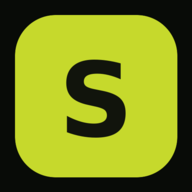
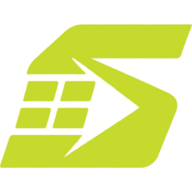
Add files via upload

diff --git a/account.html b/account.html
@@ -19,7 +19,7 @@
   <body>
     <div class="app-shell">
       <aside class="app-sidebar" aria-label="Əsas menyu">
-        <div class="sidebar-head"><a class="sidebar-brand" href="dashboard.html"><span class="brand-badge"><svg viewBox="0 0 24 24"><path d="M12 18V6m0 0-4 4m4-4 4 4"/></svg></span><span class="nav-label">StockPilot</span></a><button class="sidebar-toggle" data-sidebar-toggle aria-label="Menyunu yığ"><svg viewBox="0 0 24 24"><path d="M4 7h16M4 12h16M4 17h16"/></svg></button></div>
+        <div class="sidebar-head"><a class="sidebar-brand" href="dashboard.html" aria-label="StockPilot ana səhifə"><img class="brand-logo-full" src="stockpilot-logo.png" alt="StockPilot" /><img class="brand-logo-mark" src="stockpilot-192.png" alt="" /></a><button class="sidebar-toggle" data-sidebar-toggle aria-label="Menyunu yığ"><svg viewBox="0 0 24 24"><path d="M4 7h16M4 12h16M4 17h16"/></svg></button></div>
         <p class="nav-caption">İdarəetmə</p><nav class="app-nav">
           <a href="dashboard.html" title="Şəxsi sifarişlər"><svg viewBox="0 0 24 24"><path d="M6 3h12v18H6zM9 7h6M9 11h6M9 15h3"/></svg><span class="nav-label">Şəxsi sifarişlər</span></a><a href="customer-orders.html" title="Müştəri sifarişləri"><svg viewBox="0 0 24 24"><path d="M4 6h16v12H4zM8 10h.01M12 10h4M8 14h8"/></svg><span class="nav-label">Müştəri sifarişləri</span></a><a class="active" href="account.html" title="Ümumi statistika"><svg viewBox="0 0 24 24"><path d="M4 19V5m0 14h16M8 16v-5m4 5V7m4 9v-3"/></svg><span class="nav-label">Ümumi statistika</span></a><a href="inventory.html" title="Stok nəzarəti"><svg viewBox="0 0 24 24"><path d="m4 8 8-4 8 4-8 4-8-4Zm0 0v8l8 4 8-4V8"/></svg><span class="nav-label">Stok nəzarəti</span></a><a href="dashboard.html#tariffs" title="Tarif və ayarlar"><svg viewBox="0 0 24 24"><circle cx="12" cy="12" r="3"/><path d="M4 12h2m12 0h2M12 4v2m0 12v2M6.3 6.3l1.4 1.4m8.6 8.6 1.4 1.4m0-11.4-1.4 1.4m-8.6 8.6-1.4 1.4"/></svg><span class="nav-label">Tarif və ayarlar</span></a><a href="profile.html" title="Profil ayarları"><svg viewBox="0 0 24 24"><circle cx="12" cy="8" r="3"/><path d="M5 20c.8-4 3.1-6 7-6s6.2 2 7 6"/></svg><span class="nav-label">Profil ayarları</span></a><a href="#" id="logout" title="Çıxış"><svg viewBox="0 0 24 24"><path d="M10 4H5v16h5M14 8l4 4-4 4m4-4H9"/></svg><span class="nav-label">Çıxış</span></a>
         </nav><small class="sidebar-foot">v2.2 · Şəxsi hesab</small>

diff --git a/profile.html b/profile.html
@@ -12,7 +12,7 @@
   <body>
     <div class="app-shell">
       <aside class="app-sidebar" aria-label="Əsas menyu">
-        <div class="sidebar-head"><a class="sidebar-brand" href="dashboard.html"><span class="brand-badge"><svg viewBox="0 0 24 24"><path d="M12 18V6m0 0-4 4m4-4 4 4"/></svg></span><span class="nav-label">StockPilot</span></a><button class="sidebar-toggle" data-sidebar-toggle aria-label="Menyunu yığ"><svg viewBox="0 0 24 24"><path d="M4 7h16M4 12h16M4 17h16"/></svg></button></div>
+        <div class="sidebar-head"><a class="sidebar-brand" href="dashboard.html" aria-label="StockPilot ana səhifə"><img class="brand-logo-full" src="stockpilot-logo.png" alt="StockPilot" /><img class="brand-logo-mark" src="stockpilot-192.png" alt="" /></a><button class="sidebar-toggle" data-sidebar-toggle aria-label="Menyunu yığ"><svg viewBox="0 0 24 24"><path d="M4 7h16M4 12h16M4 17h16"/></svg></button></div>
         <p class="nav-caption">İdarəetmə</p><nav class="app-nav">
           <a href="dashboard.html" title="Şəxsi sifarişlər"><svg viewBox="0 0 24 24"><path d="M6 3h12v18H6zM9 7h6M9 11h6M9 15h3"/></svg><span class="nav-label">Şəxsi sifarişlər</span></a><a href="customer-orders.html" title="Müştəri sifarişləri"><svg viewBox="0 0 24 24"><path d="M4 6h16v12H4zM8 10h.01M12 10h4M8 14h8"/></svg><span class="nav-label">Müştəri sifarişləri</span></a><a href="account.html" title="Ümumi statistika"><svg viewBox="0 0 24 24"><path d="M4 19V5m0 14h16M8 16v-5m4 5V7m4 9v-3"/></svg><span class="nav-label">Ümumi statistika</span></a><a href="inventory.html" title="Stok nəzarəti"><svg viewBox="0 0 24 24"><path d="m4 8 8-4 8 4-8 4-8-4Zm0 0v8l8 4 8-4V8"/></svg><span class="nav-label">Stok nəzarəti</span></a><a href="dashboard.html#tariffs" title="Tarif və ayarlar"><svg viewBox="0 0 24 24"><circle cx="12" cy="12" r="3"/><path d="M4 12h2m12 0h2M12 4v2m0 12v2M6.3 6.3l1.4 1.4m8.6 8.6 1.4 1.4m0-11.4-1.4 1.4m-8.6 8.6-1.4 1.4"/></svg><span class="nav-label">Tarif və ayarlar</span></a><a class="active" href="profile.html" title="Profil ayarları"><svg viewBox="0 0 24 24"><circle cx="12" cy="8" r="3"/><path d="M5 20c.8-4 3.1-6 7-6s6.2 2 7 6"/></svg><span class="nav-label">Profil ayarları</span></a><a href="#" id="logout" title="Çıxış"><svg viewBox="0 0 24 24"><path d="M10 4H5v16h5M14 8l4 4-4 4m4-4H9"/></svg><span class="nav-label">Çıxış</span></a>
         </nav><small class="sidebar-foot">v2.2 · Şəxsi hesab</small>

diff --git a/store.html b/store.html
@@ -9,7 +9,7 @@
     <link rel="stylesheet" href="store.css" />
   </head>
   <body>
-    <header><a href="index.html">↑ StockPilot</a><button id="cartButton">Səbət <b id="cartCount">0</b></button></header>
+    <header><a href="index.html" aria-label="StockPilot ana səhifə"><img src="stockpilot-logo.png" alt="StockPilot" style="display:block;width:140px;height:34px;object-fit:contain;object-position:left center" /></a><button id="cartButton">Səbət <b id="cartCount">0</b></button></header>
     <main><section class="hero"><p id="shopTag">ONLAYN MAĞAZA</p><h1 id="shopName">Mağaza yüklənir…</h1><p>Məhsulları seçin, rahat şəkildə sifariş edin.</p></section><div id="categories" class="categories"></div><section id="products" class="products"></section></main>
     <aside id="cart" class="cart hidden"><header><b>Səbətiniz</b><button id="closeCart">×</button></header><div id="cartLines"></div><form id="checkout"><h2>Sifarişi tamamla</h2><input name="name" placeholder="Ad və soyad" required><input name="phone" placeholder="Telefon nömrəsi" required><textarea name="note" placeholder="Əlavə qeyd (istəyə bağlı)"></textarea><label class="date-label">Uyğun çatdırılma tarix və saatı <input name="preferredAt" type="datetime-local"></label><select name="delivery"><option value="metro">Metroda təhvil</option><option value="address">Ünvana çatdırılma</option></select><input name="metro" placeholder="Metro / rayon"><input name="address" placeholder="Tam ünvan"><select name="payment"><option value="cash">Nağd ödəniş</option><option value="card">Kartla ödəniş (çatdırılmada)</option></select><button class="buy">Sifarişi göndər</button><p id="message"></p></form></aside><script src="store.js"></script>
   </body>

diff --git a/shell.css b/shell.css
@@ -42,26 +42,25 @@
   display: inline-flex;
   align-items: center;
   min-width: 0;
-  gap: 9px;
-  color: var(--text, #f2f6ed);
-  font-size: 20px;
-  font-weight: 900;
-  letter-spacing: -0.6px;
+  height: 34px;
   text-decoration: none;
 }
 
-.brand-badge {
-  display: grid;
-  flex: 0 0 32px;
-  width: 32px;
-  height: 32px;
-  place-items: center;
-  border-radius: 9px;
-  background: var(--lime, #c6d92c);
-  color: #10140c;
+.brand-logo-full {
+  display: block;
+  width: 140px;
+  max-height: 34px;
+  object-fit: contain;
+  object-position: left center;
 }
 
-.brand-badge svg,
+.brand-logo-mark {
+  display: none;
+  width: 34px;
+  height: 34px;
+  object-fit: contain;
+}
+
 .sidebar-toggle svg,
 .app-nav svg,
 .mobile-bottom svg { width: 18px; height: 18px; fill: none; stroke: currentColor; stroke-width: 1.8; stroke-linecap: round; stroke-linejoin: round; }
@@ -111,7 +110,9 @@
 .sidebar-foot { margin-top: auto; padding: 14px 10px 0; border-top: 1px solid var(--line, #303a29); color: #77836f; font-size: 11px; white-space: nowrap; }
 
 .app-shell.is-sidebar-compact .sidebar-head { justify-content: center; }
-.app-shell.is-sidebar-compact .sidebar-brand { width: 32px; overflow: hidden; }
+.app-shell.is-sidebar-compact .sidebar-brand { width: 34px; overflow: hidden; }
+.app-shell.is-sidebar-compact .brand-logo-full { display: none; }
+.app-shell.is-sidebar-compact .brand-logo-mark { display: block; }
 .app-shell.is-sidebar-compact .sidebar-toggle,
 .app-shell.is-sidebar-compact .nav-caption,
 .app-shell.is-sidebar-compact .nav-label,

diff --git a/inventory.html b/inventory.html
@@ -12,7 +12,7 @@
   <body>
     <div class="app-shell">
       <aside class="app-sidebar" aria-label="Əsas menyu">
-        <div class="sidebar-head"><a class="sidebar-brand" href="dashboard.html"><span class="brand-badge"><svg viewBox="0 0 24 24"><path d="M12 18V6m0 0-4 4m4-4 4 4"/></svg></span><span class="nav-label">StockPilot</span></a><button class="sidebar-toggle" data-sidebar-toggle aria-label="Menyunu yığ"><svg viewBox="0 0 24 24"><path d="M4 7h16M4 12h16M4 17h16"/></svg></button></div>
+        <div class="sidebar-head"><a class="sidebar-brand" href="dashboard.html" aria-label="StockPilot ana səhifə"><img class="brand-logo-full" src="stockpilot-logo.png" alt="StockPilot" /><img class="brand-logo-mark" src="stockpilot-192.png" alt="" /></a><button class="sidebar-toggle" data-sidebar-toggle aria-label="Menyunu yığ"><svg viewBox="0 0 24 24"><path d="M4 7h16M4 12h16M4 17h16"/></svg></button></div>
         <p class="nav-caption">İdarəetmə</p><nav class="app-nav">
           <a href="dashboard.html" title="Şəxsi sifarişlər"><svg viewBox="0 0 24 24"><path d="M6 3h12v18H6zM9 7h6M9 11h6M9 15h3"/></svg><span class="nav-label">Şəxsi sifarişlər</span></a>
           <a href="customer-orders.html" title="Müştəri sifarişləri"><svg viewBox="0 0 24 24"><path d="M4 6h16v12H4zM8 10h.01M12 10h4M8 14h8"/></svg><span class="nav-label">Müştəri sifarişləri</span></a>

diff --git a/dashboard.html b/dashboard.html
@@ -15,7 +15,7 @@
   <body>
     <div class="app-shell">
       <aside class="app-sidebar" aria-label="Əsas menyu">
-        <div class="sidebar-head"><a class="sidebar-brand" href="dashboard.html"><span class="brand-badge"><svg viewBox="0 0 24 24"><path d="M12 18V6m0 0-4 4m4-4 4 4"/></svg></span><span class="nav-label">StockPilot</span></a><button class="sidebar-toggle" data-sidebar-toggle aria-label="Menyunu yığ"><svg viewBox="0 0 24 24"><path d="M4 7h16M4 12h16M4 17h16"/></svg></button></div>
+        <div class="sidebar-head"><a class="sidebar-brand" href="dashboard.html" aria-label="StockPilot ana səhifə"><img class="brand-logo-full" src="stockpilot-logo.png" alt="StockPilot" /><img class="brand-logo-mark" src="stockpilot-192.png" alt="" /></a><button class="sidebar-toggle" data-sidebar-toggle aria-label="Menyunu yığ"><svg viewBox="0 0 24 24"><path d="M4 7h16M4 12h16M4 17h16"/></svg></button></div>
         <p class="nav-caption">İdarəetmə</p>
         <nav class="app-nav">
           <button id="personalOrdersPanel" class="active" title="Şəxsi sifarişlər"><svg viewBox="0 0 24 24"><path d="M6 3h12v18H6zM9 7h6M9 11h6M9 15h3"/></svg><span class="nav-label">Şəxsi sifarişlər</span></button>

diff --git a/customer-orders.html b/customer-orders.html
@@ -14,7 +14,7 @@
   <body>
     <div class="app-shell">
       <aside class="app-sidebar" aria-label="Əsas menyu">
-        <div class="sidebar-head"><a class="sidebar-brand" href="dashboard.html"><span class="brand-badge"><svg viewBox="0 0 24 24"><path d="M12 18V6m0 0-4 4m4-4 4 4"/></svg></span><span class="nav-label">StockPilot</span></a><button class="sidebar-toggle" data-sidebar-toggle aria-label="Menyunu yığ"><svg viewBox="0 0 24 24"><path d="M4 7h16M4 12h16M4 17h16"/></svg></button></div>
+        <div class="sidebar-head"><a class="sidebar-brand" href="dashboard.html" aria-label="StockPilot ana səhifə"><img class="brand-logo-full" src="stockpilot-logo.png" alt="StockPilot" /><img class="brand-logo-mark" src="stockpilot-192.png" alt="" /></a><button class="sidebar-toggle" data-sidebar-toggle aria-label="Menyunu yığ"><svg viewBox="0 0 24 24"><path d="M4 7h16M4 12h16M4 17h16"/></svg></button></div>
         <p class="nav-caption">İdarəetmə</p>
         <nav class="app-nav">
           <a id="personalOrdersPanel" href="dashboard.html" title="Şəxsi sifarişlər"><svg viewBox="0 0 24 24"><path d="M6 3h12v18H6zM9 7h6M9 11h6M9 15h3"/></svg><span class="nav-label">Şəxsi sifarişlər</span></a>

diff --git a/order-success.html b/order-success.html
@@ -13,7 +13,7 @@
     <main class="success-wrap">
       <section class="success-card">
         <div class="success-mark">✓</div>
-        <p>STOCKPILOT MAĞAZA</p>
+        <img src="stockpilot-logo.png" alt="StockPilot" style="display:block;width:150px;height:36px;object-fit:contain;margin:0 auto 18px" />
         <h1>Sifarişiniz qəbul edildi</h1>
         <p>Məhsulunuz qısa müddət ərzində hazırlanacaq və çatdırılma üçün sizinlə əlaqə saxlanılacaqdır.</p>
         <p id="orderRef"></p>

diff --git a/index.html b/index.html
@@ -18,7 +18,7 @@
   <body>
     <section class="auth-shell">
       <div class="hero">
-        <div class="brand"><i class="brand-mark">↑</i>StockPilot</div>
+        <div class="brand brand-image"><img src="stockpilot-logo.png" alt="StockPilot" /></div>
         <h1>Stokun, sifarişin və qazancın <em>bir yerdə.</em></h1>
         <p>
           Öz hesabını yarat, şəxsi iş sahəndə məhsullarını izləyib sifarişlərini

diff --git a/register.html b/register.html
@@ -18,7 +18,7 @@
   <body>
     <section class="auth-shell">
       <div class="hero">
-        <div class="brand"><i class="brand-mark">↑</i>StockPilot</div>
+        <div class="brand brand-image"><img src="stockpilot-logo.png" alt="StockPilot" /></div>
         <h1>Öz iş sahəni <em>yarat.</em></h1>
         <p>Hər məhsul və sifariş yalnız sənin hesabına aid olacaq.</p>
       </div>

diff --git a/login.html b/login.html
@@ -18,7 +18,7 @@
   <body>
     <section class="auth-shell">
       <div class="hero">
-        <div class="brand"><i class="brand-mark">↑</i>StockPilot</div>
+        <div class="brand brand-image"><img src="stockpilot-logo.png" alt="StockPilot" /></div>
         <h1>Hesabına <em>daxil ol.</em></h1>
         <p>Şəxsi sifariş sahən hər yerdə səninlədir.</p>
       </div>

diff --git a/app.css b/app.css
@@ -70,6 +70,18 @@ button {
   color: #11140b;
   font-style: normal;
 }
+.brand-image {
+  display: inline-flex;
+  align-items: center;
+  min-height: 34px;
+}
+.brand-image img {
+  display: block;
+  width: min(170px, 46vw);
+  height: 34px;
+  object-fit: contain;
+  object-position: left center;
+}
 .hero h1 {
   font-size: clamp(40px, 6vw, 75px);
   line-height: 0.98;
